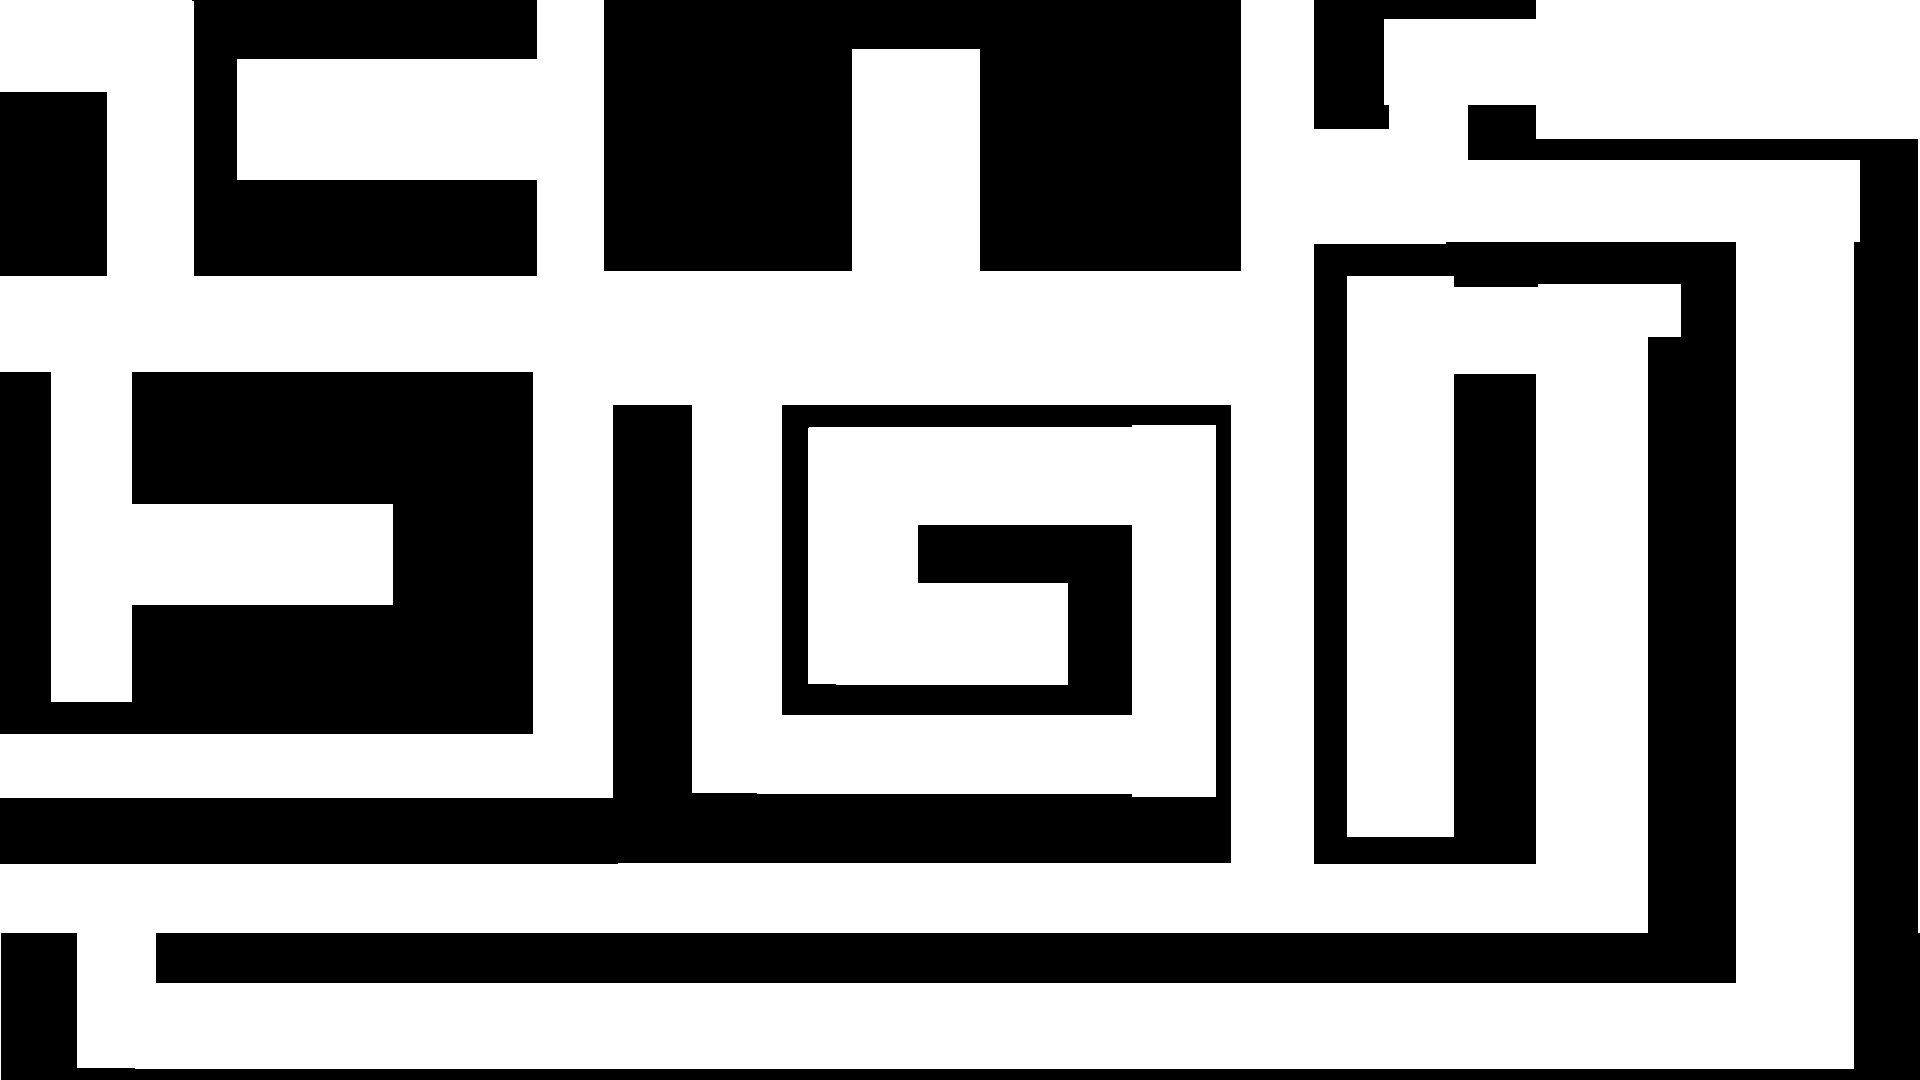
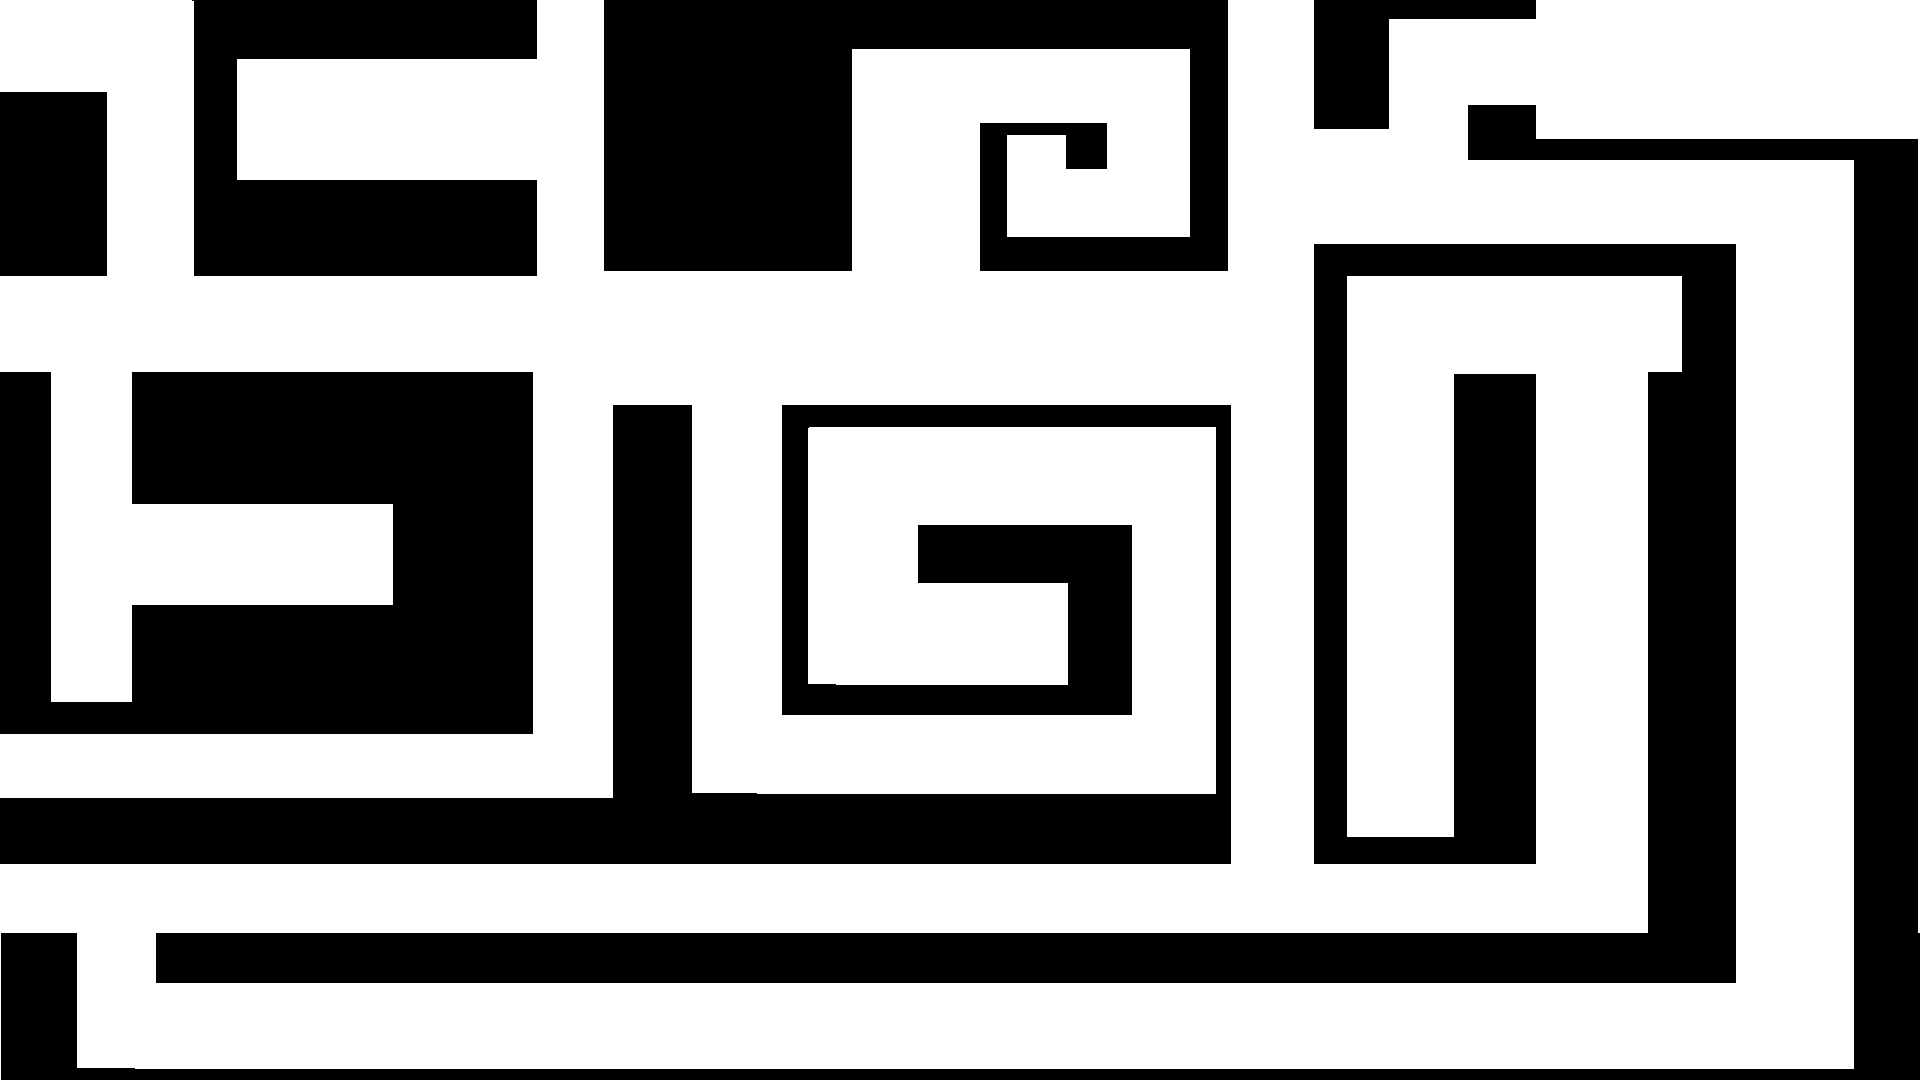
四個遊戲加入電管出界後的視覺效果
+ 在迷宮模式新增觸碰到管子的視覺效果(變色管)
 	+ remove_background有點怪怪的無法被套用，只能套用在舊版easy.png，其餘新圖片皆不能是為甚麼呀?
	+ esay.png 有更新過喔.
	+ 新增outpipe_easy.png與playing_easy.png.
	+ maze_game.py 新增 outtime 用來記錄需要亮'紅管'的剩餘時間.
 + 對cube新增 電管出界後一片紅
 + 對base_video_game新增 邊線重劃可解決輕微重疊問題
 + 對base_video_game新增 出界電管變紅

Changed region(s): [[0.5, 0.0, 0.6562, 0.2444], [0.75, 0.2444, 0.875, 0.275], [0.8438, 0.3056, 0.875, 0.3667]]

diff --git a/base_video_game.py b/base_video_game.py
@@ -20,11 +20,13 @@ class BaseVideoGame(Game):
         self.body = body
         self.half_track_width = 50
         self.level_max = 100
+        self.color = (100 ,100 ,100)
         self.binarization_arr = np.zeros(
             self.level_max * 1930 * 1090).reshape((self.level_max, 1930, 1090))
 
     def calc(self, results):
         self.x = self.y = -1
+        self.color = (100 ,100 ,100)
         if getattr(results, self.solution.landmarks_name):
             self.x, self.y = self.solution.get_landmarks(
                 self.w, self.h, results)
@@ -33,11 +35,12 @@ class BaseVideoGame(Game):
             if self.status == "playing":
                 self.now_number = 0
                 self.out_pipe = True
+                self.outtime = 20
                 self.status = "prepare_begin"
 
         else:
-            front = self.now_number - 5
-            end = self.now_number + 5
+            front = self.now_number - 3
+            end = self.now_number + 3
             front = max(0, front)
             end = min(end, len(self.right_hand) - 1)
 
@@ -54,7 +57,7 @@ class BaseVideoGame(Game):
                     self.now_number = 1
                     self.status = "playing"
 
-            else:
+            elif self.status == 'playing':
                 is_out_of_bounds = True
                 for i in range(end, front - 1, -1):
                     if self.binarization_arr[i][self.x][self.y]:
@@ -65,13 +68,19 @@ class BaseVideoGame(Game):
                 if is_out_of_bounds == True:
                     self.now_number = 0
                     self.out_pipe = True
+                    self.outtime = 20
                     self.status = "prepare_begin"
+        
+        if self.outtime > 0:
+            self.color = (3, 1, 231) 
 
     def draw(self, results, image):
         def draw_pipe(image):  # image,coor_a, coor_b, index, open_save
+            image = self.draw_circle(image)
             for i in range(len(self.right_hand) - 1, 0, -1):
                 image = self.draw_and_save_circle_link_poly(image, i, 0)
-            image = self.draw_circle(image)
+            image = cv2.circle(image, (self.right_hand[self.now_number][0], self.right_hand[self.now_number]
+                           [1]), self.half_track_width, (255, 255, 255), -1,) # 畫出玩家須前往的方向(小白球)
             return image
         image = super().draw(results, image)
         image = cv2.cvtColor(image, cv2.COLOR_BGR2BGRA)
@@ -225,26 +234,9 @@ class BaseVideoGame(Game):
         y = int(coor_b[1] + (k * w))
         link_dot.append([x, y])
 
-        # draw line
-        if open_save == 0 and abs(index - self.now_number < 3):
-            cv2.line(
-                image,
-                (link_dot[0][0], link_dot[0][1]),
-                (link_dot[3][0], link_dot[3][1]),
-                (0, 0, 0),
-                5,
-            )
-            cv2.line(
-                image,
-                (link_dot[1][0], link_dot[1][1]),
-                (link_dot[2][0], link_dot[2][1]),
-                (0, 0, 0),
-                5,
-            )
-
         # full draw
         contours = np.array(link_dot)
-        cv2.fillPoly(image, pts=[contours], color=(0, 225, 225))
+        cv2.fillPoly(image, pts=[contours], color=self.color)
 
         # save poly in binarization_arr(need save ? open_save = 1 : open_save = 0)
         if open_save == 1:
@@ -261,19 +253,31 @@ class BaseVideoGame(Game):
                     if self.binarization_arr[index][i][j] == 0:
                         if is_in_poly([i, j], link_dot) == True:
                             self.binarization_arr[index][i][j] = 1
+
+         # draw line
+        if open_save == 0 and index - self.now_number < 3 and index - self.now_number >= 0:
+            cv2.line(
+                image,
+                (link_dot[0][0], link_dot[0][1]),
+                (link_dot[3][0], link_dot[3][1]),
+                (0, 255, 255),
+                5,
+            )
+            cv2.line(
+                image,
+                (link_dot[1][0], link_dot[1][1]),
+                (link_dot[2][0], link_dot[2][1]),
+                (0, 255, 255),
+                5,
+            )
+
         return image
 
     def draw_circle(self, image):
         if len(self.right_hand) == 0:
             return image
         for i in range(len(self.right_hand) - 1, -1, -1):
-            if self.now_number == i:
-                col = [255, 255, 255]
-            else:
-                col = [0, 225, 225]
             image = cv2.circle(
-                image, (self.right_hand[i][0], self.right_hand[i][1]), self.half_track_width, (col[0], col[1], col[2]), -1,)
-        col = [255, 255, 255]
-        image = cv2.circle(image, (self.right_hand[self.now_number][0], self.right_hand[self.now_number]
-                           [1]), self.half_track_width, (col[0], col[1], col[2]), -1,)
+                image, (self.right_hand[i][0], self.right_hand[i][1]), self.half_track_width, self.color, -1,)
         return image
+        

diff --git a/tube_game.py b/tube_game.py
@@ -8,6 +8,8 @@ from game import Game
 class TubeGame(Game):
     def __init__(self, body='hands'):
         self.reset(body)
+        self.outpipe_img = cv2.imread(
+            'static/images/fail.png', cv2.IMREAD_UNCHANGED)
 
     def reset(self, body):
         super().reset(body)
@@ -35,6 +37,7 @@ class TubeGame(Game):
                     self.print_string = 'successful'
                 if not(50 <= self.x <= 600 and 150 + self.run <= self.y <= 200 + self.run):
                     self.outpipe = True
+                    self.outtime = 20
                     self.status = 'prepare_begin'
                     self.r_string = 'Fail <again>'
             if self.status in ['prepare_begin', 'playing'] and self.begin_time != 0:
@@ -42,23 +45,27 @@ class TubeGame(Game):
                     str(int(time.time() - self.begin_time)) + ">"
         elif self.status == 'playing':
             self.outpipe = True
+            self.outtime = 20
             self.status = 'prepare_begin'
             self.r_string = 'Fail <again>'
 
     def draw(self, results, image):
         image = super().draw(results, image)
         if self.x > 0.0 and self.y > 0.0:
-          col = 255
-          if self.status == 'playing':
-              col = 20
-          else:
-              col = 175
-          cv2.rectangle(image, (self.x - 10, self.y - 10),
-                        (self.x + 10, self.y + 10), (0, 0, col), 5)   # 畫出觸碰區
+            col = 255
+            if self.status == 'playing':
+                col = (0,0,20)
+            else:
+                col = (0,0,175)
+            cv2.rectangle(image, (self.x - 10, self.y - 10),
+                        (self.x + 10, self.y + 10), col, 5)   # 畫出觸碰區
 
         if self.status != "game_over":
+            col = (50, 50, 50 )
+            if self.status == 'playing':
+                col = (0, 250, 250)
             cv2.rectangle(image, (50, 150 + int(self.run)), (600, 200 + int(self.run)),
-                          (0, 0, 255), 5)   # 畫出電管
+                          col, 5)   # 畫出電管
         if self.status == 'prepare_begin':
             cv2.rectangle(image, (50, 150 + int(self.run)), (100, 200 + int(self.run)),
                           (0, 255, 0), 5)   # 畫出起始位置框
@@ -73,5 +80,11 @@ class TubeGame(Game):
                         (0, 150), cv2.FONT_HERSHEY_PLAIN, 5, (260, 25, 240), 3)  # 檢視成績
             cv2.putText(image, "<Game over>", (0, 250),
                         cv2.FONT_HERSHEY_PLAIN, 5, (260, 25, 240), 3)
+        if self.outtime > 0:
+            image = self.draw_outpipe(image)
         image = cv2.resize(image, (1280, 720))
         return cv2.imencode('.jpg', image)[1].tobytes()
+
+    def draw_outpipe(self,image):
+        image = cv2.addWeighted(image, 0.4, self.outpipe_img, 0.6, 0)
+        return image

diff --git a/maze_game.py b/maze_game.py
@@ -23,8 +23,12 @@ class MazeGame(Game):
         self.maze_img = cv2.imread(
             'static/images/' + self.level + '.png', cv2.IMREAD_UNCHANGED)
         self.show_img = self.maze_img.copy()
-        self.show_img = remove_background(self.show_img)
-
+        #self.show_img = remove_background(self.show_img)
+        self.outpipe_img = cv2.imread(
+            'static/images/outpipe_' + self.level + '.png', cv2.IMREAD_UNCHANGED)
+        self.playing_img = cv2.imread(
+            'static/images/playing_' + self.level + '.png', cv2.IMREAD_UNCHANGED)
+        
     def calc(self, results):
         def is_in_begin(x, y):
             if 15 < x < 65 and 15 < y < 65:
@@ -55,9 +59,11 @@ class MazeGame(Game):
             elif self.status == 'playing':
                 if is_touched(self.x, self.y):
                     self.outpipe = True
+                    self.outtime = 10
                     self.status = 'prepare_begin'
-        elif self.status != 'game_over':
+        elif self.status == 'playing':
             self.status = 'prepare_begin'
+            self.outtime = 10
 
     def draw(self, results, image):
         image = super().draw(results, image)
@@ -67,7 +73,12 @@ class MazeGame(Game):
             image = cv2.rectangle(image, (self.x - 5, self.y - 5),
                                   (self.x + 5, self.y + 5), (0, 0, 255), 5)   # 畫出手的位置
         if self.status != 'game_over':
-            image = cv2.addWeighted(image, 0.8, self.show_img, 0.2, 0)
+            if self.outtime > 0:
+                image = cv2.addWeighted(image, 0.3, self.outpipe_img, 0.7, 0)
+            elif self.status == 'playing':
+                image = cv2.addWeighted(image, 0.6, self.playing_img, 0.4, 0)
+            else:
+                image = cv2.addWeighted(image, 0.6, self.show_img, 0.4, 0)
         if self.status == 'prepare_begin':
             # 畫出起始位置框
             image = cv2.rectangle(image, (15, 15), (65, 65),

diff --git a/game.py b/game.py
@@ -23,6 +23,8 @@ class Game:
         self.pTime = self.cTIme = 0
         self.begin_time = self.end_time = 0
         self.solution = Solution(body)
+        self.outtime = 0
+
 
     def capture(self, flip=False):
         if not hasattr(self, 'image'):
@@ -56,6 +58,7 @@ class Game:
                     cv2.FONT_HERSHEY_PLAIN, 3, (255, 0, 0), 3)
         if getattr(results, self.solution.landmarks_name):
             self.solution.draw_landmarks(image, results)
+        self.outtime -= 1
         return image
         # Child class should return as below:
         # return cv2.imencode('.jpg', image)[1].tobytes()
@@ -72,3 +75,4 @@ class Game:
 
     def check_outpipe(self):
         return self.check_something('outpipe')
+    
